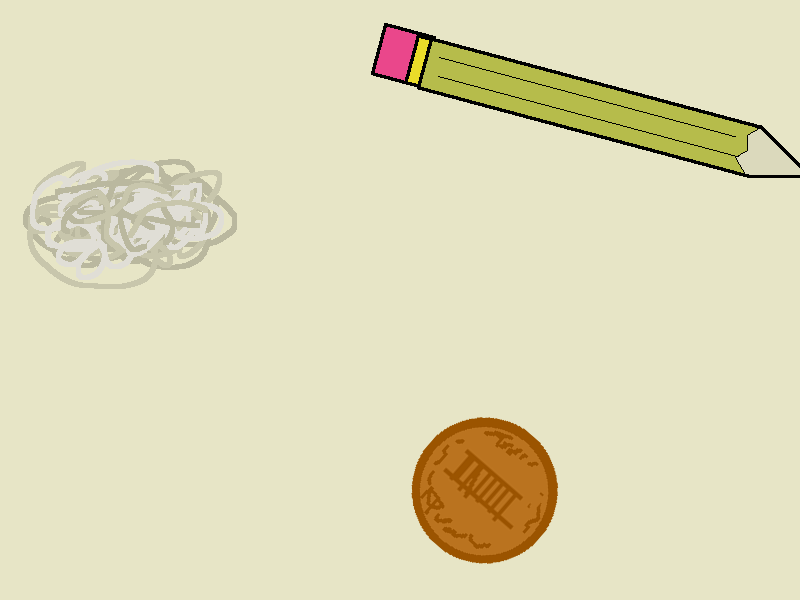
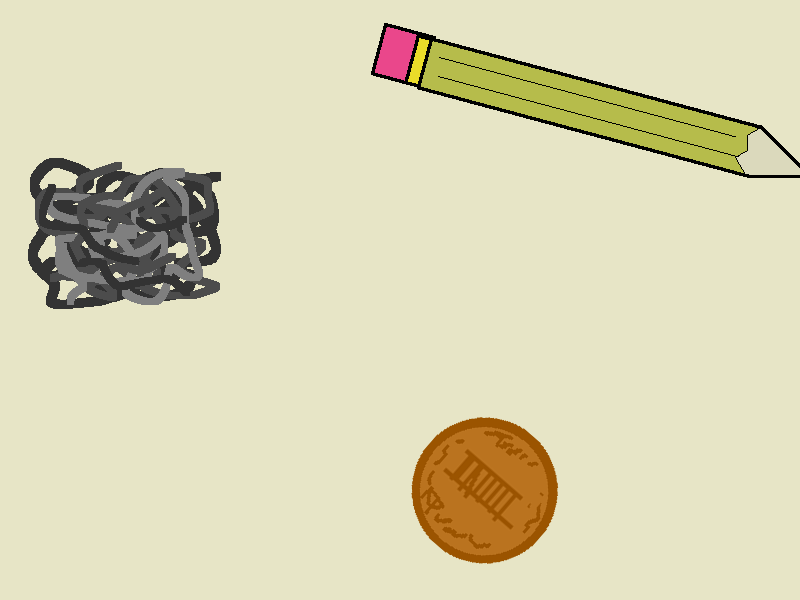
added luna and circleWorm

Changed region(s): [[0.0312, 0.24, 0.3125, 0.54]]

diff --git a/js/world.js b/js/world.js
@@ -1,10 +1,12 @@
 function changeScreen(newScreen){
-  console.log("switch screen");
   game.state.start(newScreen);
 }
 
-var spawn = "left";
+var luna;
+var circleWormLocation = "kitchen";
+var circleWorm;
 
+var spawn = "center";
 var spawnx;
 var spawny;
 var spawnDir;
@@ -20,15 +22,23 @@ var gateState = {
     area = walls.create(0,0,"gate");
     area.body.immovable = true;
 
-    if (spawn == "left"){
-      spawnx = 40;
-      spawny = 500;
-      spawnDir = -1;
+    if (circleWormLocation == "kitchen"){
+      luna = game.add.sprite(0,425,'luna');
+      luna.enableBody = true;
+      luna.scale.setTo(3)
+      game.physics.enable(luna, Phaser.Physics.ARCADE);
+      luna.body.immovable = true;
     }
+
     if (spawn == "right"){
       spawnx = 700;
       spawny = 500;
-      spawnDir = 1
+      spawnDir = 1;
+    }
+    else if (spawn == "center") {
+      spawnx = 412;
+      spawny = 517;
+      spawnDir = 1;
     }
 
     this.player = game.add.sprite(spawnx,spawny,'curtis');
@@ -40,22 +50,27 @@ var gateState = {
   update: function(){
     if (game.input.keyboard.isDown(Phaser.Keyboard.LEFT) || game.input.keyboard.isDown(Phaser.Keyboard.A))
     {
-        this.player.body.x -= 4;
+        this.player.body.velocity.x = -200;
         this.player.scale.x = 1;
     }
     else if (game.input.keyboard.isDown(Phaser.Keyboard.RIGHT) || game.input.keyboard.isDown(Phaser.Keyboard.D))
     {
-        this.player.body.x += 4;
+        this.player.body.velocity.x = 200;
         this.player.scale.x = -1;
     }
-
+    else {
+      this.player.body.velocity.x = 0;
+    }
     if (game.input.keyboard.isDown(Phaser.Keyboard.UP) || game.input.keyboard.isDown(Phaser.Keyboard.W))
     {
-        this.player.body.y -= 4;
+        this.player.body.velocity.y = -200;
     }
     else if (game.input.keyboard.isDown(Phaser.Keyboard.DOWN) || game.input.keyboard.isDown(Phaser.Keyboard.S))
     {
-        this.player.body.y += 4;
+        this.player.body.velocity.y = 200;
+    }
+    else {
+      this.player.body.velocity.y = 0;
     }
 
     if (game.input.keyboard.isDown(Phaser.Keyboard.L))
@@ -70,6 +85,9 @@ var gateState = {
     }
 
     this.game.physics.arcade.collide(this.player, walls);
+    this.game.physics.arcade.collide(this.player, circleWorm);
+    this.game.physics.arcade.collide(walls,circleWorm);
+    this.game.physics.arcade.collide(this.player,luna);
   }
 }
 
@@ -110,26 +128,39 @@ var diningState = {
     this.player.scale.x = spawnDir;
     game.physics.enable(this.player, Phaser.Physics.ARCADE);
     this.player.body.collideWorldBounds = true;
+
+    if (circleWormLocation == "dining"){
+      circleWorm = game.add.sprite(600,350,'circleWorm');
+      game.physics.enable(circleWorm,Phaser.Physics.ARCADE);
+      // circleWorm.body.velocity.setTo(200,200);
+      // circleWorm.body.collideWorldBounds = true;
+      circleWorm.body.bounce.setTo(0.5);
+    }
   },
   update: function(){
     if (game.input.keyboard.isDown(Phaser.Keyboard.LEFT) || game.input.keyboard.isDown(Phaser.Keyboard.A))
     {
-        this.player.body.x -= 4;
+        this.player.body.velocity.x = -200;
         this.player.scale.x = 1;
     }
     else if (game.input.keyboard.isDown(Phaser.Keyboard.RIGHT) || game.input.keyboard.isDown(Phaser.Keyboard.D))
     {
-        this.player.body.x += 4;
+        this.player.body.velocity.x = 200;
         this.player.scale.x = -1;
     }
-
+    else {
+      this.player.body.velocity.x = 0;
+    }
     if (game.input.keyboard.isDown(Phaser.Keyboard.UP) || game.input.keyboard.isDown(Phaser.Keyboard.W))
     {
-        this.player.body.y -= 4;
+        this.player.body.velocity.y = -200;
     }
     else if (game.input.keyboard.isDown(Phaser.Keyboard.DOWN) || game.input.keyboard.isDown(Phaser.Keyboard.S))
     {
-        this.player.body.y += 4;
+        this.player.body.velocity.y = 200;
+    }
+    else {
+      this.player.body.velocity.y = 0;
     }
 
     if (game.input.keyboard.isDown(Phaser.Keyboard.L))
@@ -152,6 +183,8 @@ var diningState = {
     }
 
     this.game.physics.arcade.collide(this.player, walls);
+    this.game.physics.arcade.collide(this.player, circleWorm);
+    this.game.physics.arcade.collide(walls,circleWorm)
   }
 }
 
@@ -172,40 +205,60 @@ var kitchenState = {
     this.player.scale.x = spawnDir;
     game.physics.enable(this.player, Phaser.Physics.ARCADE);
     this.player.body.collideWorldBounds = true;
+    this.player.body.bounce.setTo(1,1)
 
+    if (circleWormLocation == "kitchen"){
+      circleWorm = game.add.sprite(600,350,'circleWorm');
+      game.physics.enable(circleWorm,Phaser.Physics.ARCADE);
+      // circleWorm.body.velocity.setTo(200,200);
+      // circleWorm.body.collideWorldBounds = true;
+      circleWorm.body.bounce.setTo(0.5);
+    }
   },
   update: function(){
     if (game.input.keyboard.isDown(Phaser.Keyboard.LEFT) || game.input.keyboard.isDown(Phaser.Keyboard.A))
     {
-        this.player.body.x -= 4;
+        this.player.body.velocity.x = -200;
         this.player.scale.x = 1;
     }
     else if (game.input.keyboard.isDown(Phaser.Keyboard.RIGHT) || game.input.keyboard.isDown(Phaser.Keyboard.D))
     {
-        this.player.body.x += 4;
+        this.player.body.velocity.x = 200;
         this.player.scale.x = -1;
     }
-
+    else {
+      this.player.body.velocity.x = 0;
+    }
     if (game.input.keyboard.isDown(Phaser.Keyboard.UP) || game.input.keyboard.isDown(Phaser.Keyboard.W))
     {
-        this.player.body.y -= 4;
+        this.player.body.velocity.y = -200;
     }
     else if (game.input.keyboard.isDown(Phaser.Keyboard.DOWN) || game.input.keyboard.isDown(Phaser.Keyboard.S))
     {
-        this.player.body.y += 4;
+        this.player.body.velocity.y = 200;
+    }
+    else {
+      this.player.body.velocity.y = 0;
     }
 
     if (game.input.keyboard.isDown(Phaser.Keyboard.L))
     {
-      console.log(this.player.body.x)
-      console.log(this.player.body.y)
+      console.log(circleWorm.body.x)
+      console.log(circleWorm.body.y)
     }
 
     if (this.player.body.x == 0){
-      spawn = "topRight"
-      changeScreen("dining")
+      spawn = "topRight";
+      if (circleWormLocation == "kitchen"){
+        if (circleWorm.body.x < 0){
+          circleWormLocation = "dining";
+        }
+      }
+      changeScreen("dining");
     }
 
     this.game.physics.arcade.collide(this.player, walls);
+    this.game.physics.arcade.collide(this.player, circleWorm);
+    this.game.physics.arcade.collide(walls,circleWorm)
   }
 }

diff --git a/js/dungeon.js b/js/dungeon.js
@@ -356,22 +356,27 @@ var dungeonState = {
 
     if (game.input.keyboard.isDown(Phaser.Keyboard.LEFT) || game.input.keyboard.isDown(Phaser.Keyboard.A))
     {
-        this.player.body.x -= 4;
+        this.player.body.velocity.x = -200;
         this.player.scale.x = 1;
     }
     else if (game.input.keyboard.isDown(Phaser.Keyboard.RIGHT) || game.input.keyboard.isDown(Phaser.Keyboard.D))
     {
-        this.player.body.x += 4;
+        this.player.body.velocity.x = 200;
         this.player.scale.x = -1;
     }
-
+    else {
+      this.player.body.velocity.x = 0;
+    }
     if (game.input.keyboard.isDown(Phaser.Keyboard.UP) || game.input.keyboard.isDown(Phaser.Keyboard.W))
     {
-        this.player.body.y -= 4;
+        this.player.body.velocity.y = -200;
     }
     else if (game.input.keyboard.isDown(Phaser.Keyboard.DOWN) || game.input.keyboard.isDown(Phaser.Keyboard.S))
     {
-        this.player.body.y += 4;
+        this.player.body.velocity.y = 200;
+    }
+    else {
+      this.player.body.velocity.y = 0;
     }
 
     if (game.input.keyboard.isDown(Phaser.Keyboard.L))

diff --git a/js/load.js b/js/load.js
@@ -13,6 +13,7 @@ var loadState = {
     game.load.image('diningTable','/assets/backgrounds/diningTable.png');
 
     game.load.image('kitchen','/assets/backgrounds/kitchenBg.png');
+    game.load.image('circleWorm','/assets/characters/circleWorm.png')
 
     game.load.image('dungeonBg','/assets/backgrounds/dungeonBg.png');
     game.load.image('dungeonWall','/assets/backgrounds/dungeonBarrier.png');
@@ -20,6 +21,7 @@ var loadState = {
     game.load.image('dungeonCorner','/assets/backgrounds/dungeonCorner.png');
 
     game.load.image('curtis','/assets/characters/curtis.png');
+    game.load.image('luna','/assets/characters/luna.png')
 
   },
   create: function(){
